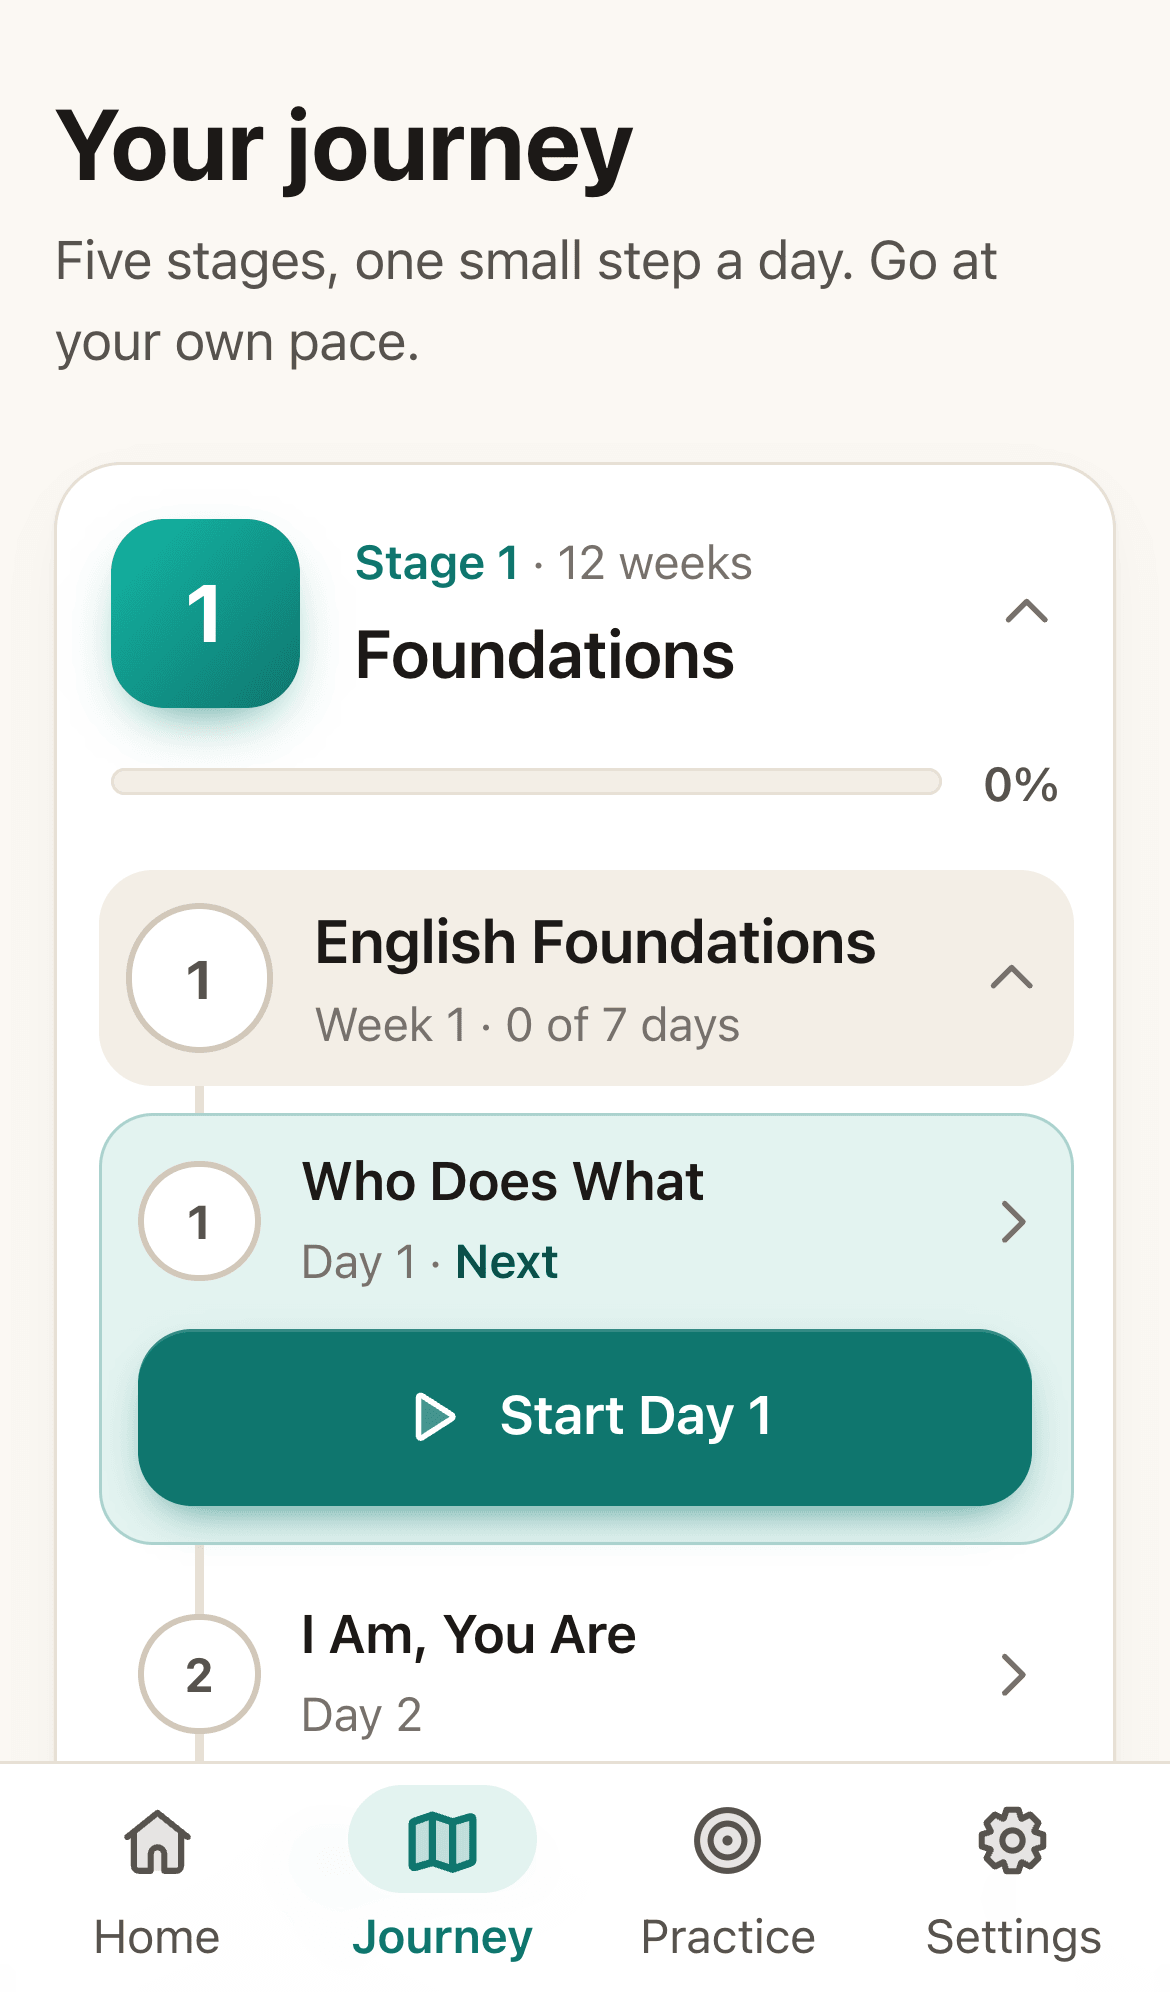
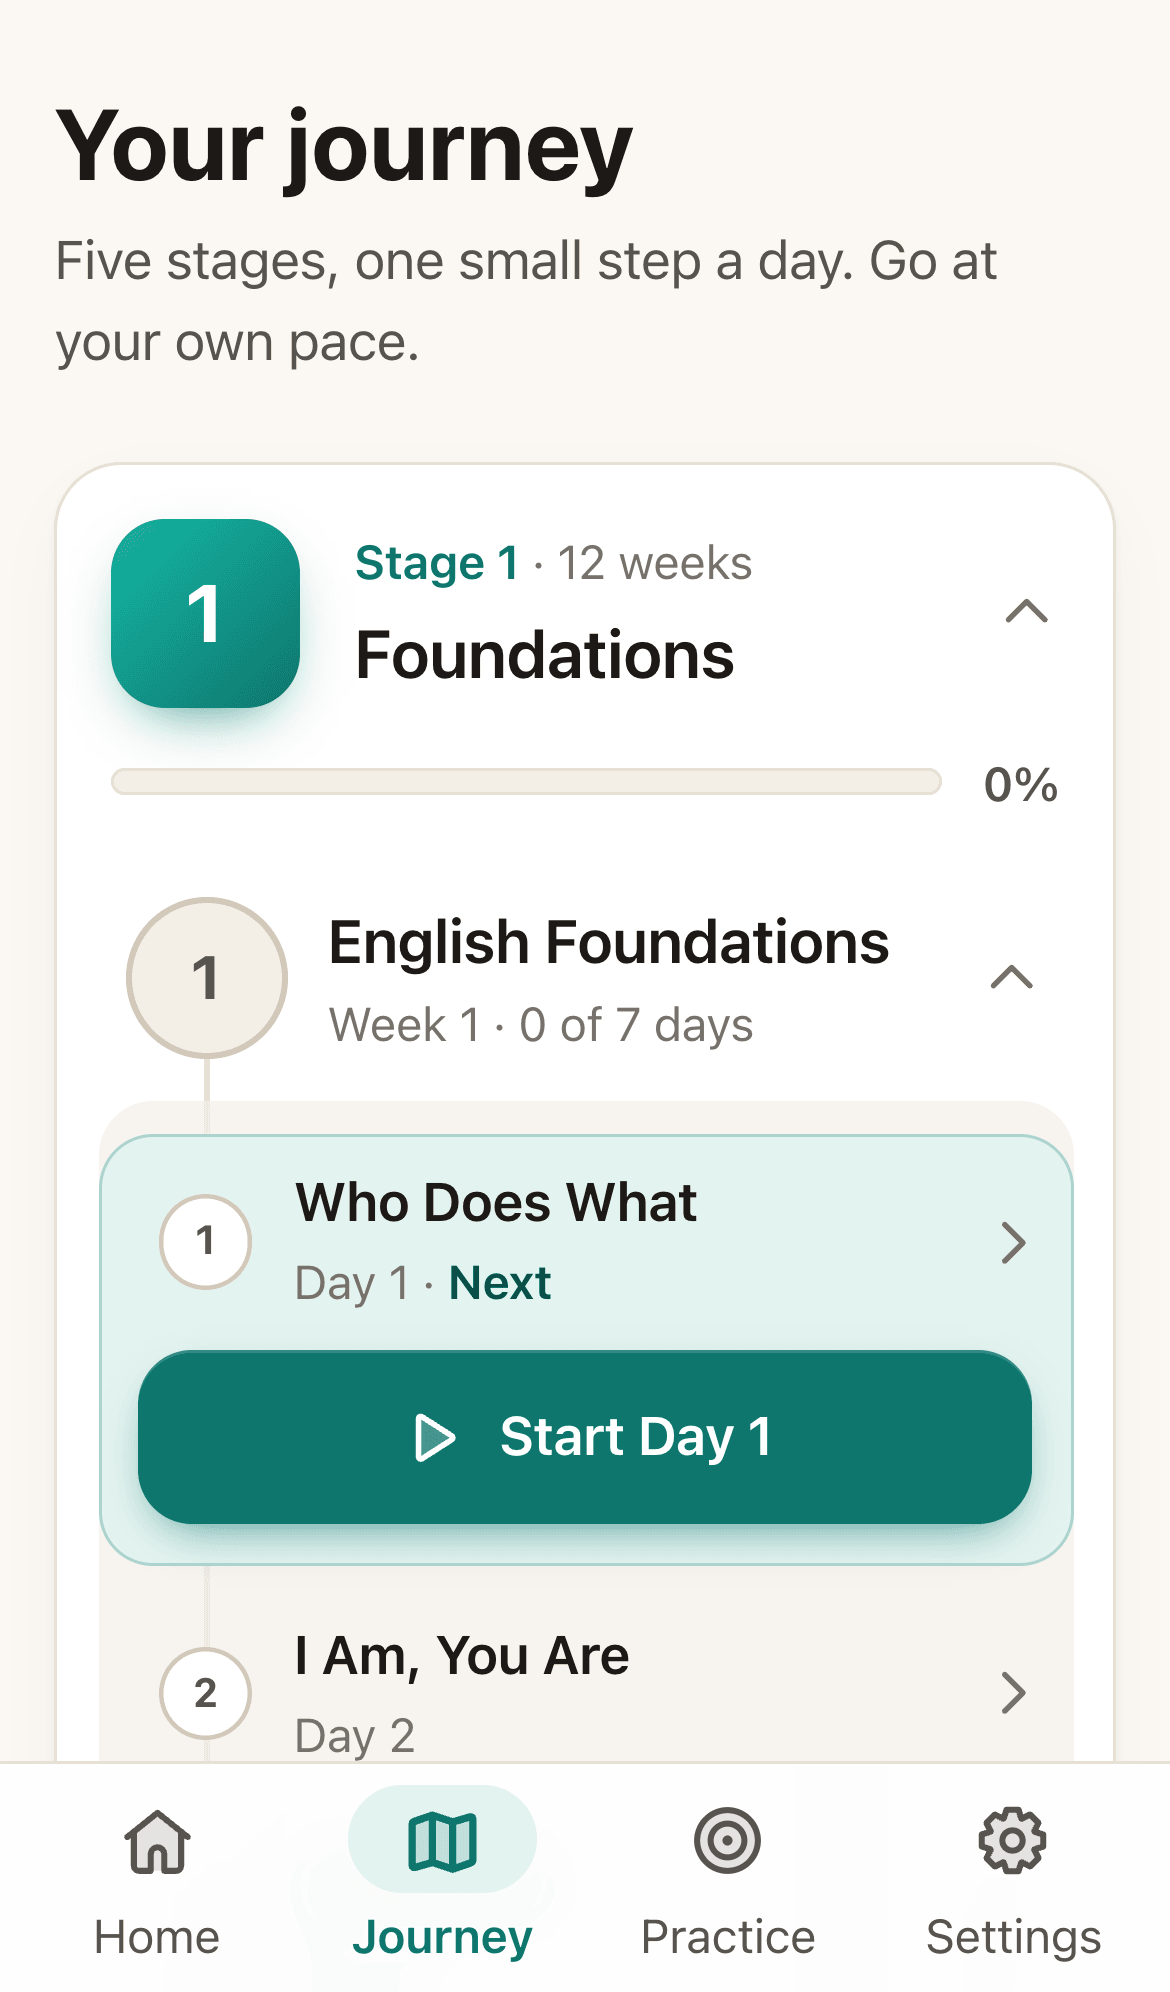
Journey: weeks look separate from days
Week circles are 3rem with a soft fill and a larger number; day circles are 1.75rem with a thin ring; an opened week's days sit in a tinted band, so the next week clearly starts after it (owner's pick from a three-way drawing). The Journey screenshot and its landing picture are refreshed.

Changed region(s): [[0.0615, 0.4357, 0.9231, 0.9026], [0.8615, 0.8404, 0.8923, 0.8715], [0.8615, 0.5914, 0.8923, 0.6225]]

diff --git a/src/components/learn/Journey.tsx b/src/components/learn/Journey.tsx
@@ -28,14 +28,17 @@ const SR: Record<State, BiLabel> = { complete: strings.stepDone, "in-progress": 
  * (in progress) or faint (not written yet). Sized in rem, so it grows with the text size.
  */
 function Node({ n, state, percent = 0, soon, size = "md" }: { n: number; state: State; percent?: number; soon?: boolean; size?: "md" | "sm" }) {
-  const box = size === "md" ? "size-11 text-base" : "size-9 text-sm";
+  // A week is a big filled station; a day a small stop on the line (owner, 2026-11-09).
+  const week = size === "md";
+  const box = week ? "size-12 text-lg" : "size-7 text-xs";
+  const ring = week ? "ring-2" : "ring-[1.5px]";
   const style = soon
-    ? "bg-sunken text-ink-3 ring-2 ring-inset ring-line"
+    ? `bg-sunken text-ink-3 ${ring} ring-inset ring-line`
     : state === "complete"
       ? "bg-good text-surface"
       : state === "in-progress"
-        ? "bg-surface text-brand-ink ring-[3px] ring-inset ring-brand/20"
-        : "bg-surface text-ink-2 ring-2 ring-inset ring-line-strong";
+        ? `${week ? "bg-sunken" : "bg-surface"} text-brand-ink ring-[3px] ring-inset ring-brand/20`
+        : `${week ? "bg-sunken" : "bg-surface"} text-ink-2 ${ring} ring-inset ring-line-strong`;
   return (
     <>
       <span aria-hidden="true" className={`relative z-[1] flex shrink-0 items-center justify-center rounded-full font-bold tabular-nums ${box} ${style}`}>
@@ -56,17 +59,17 @@ function Node({ n, state, percent = 0, soon, size = "md" }: { n: number; state: 
             />
           </svg>
         )}
-        {!soon && state === "complete" ? <Icon name="check" className={size === "md" ? "size-5" : "size-4"} strokeWidth={3} /> : n}
+        {!soon && state === "complete" ? <Icon name="check" className={week ? "size-5" : "size-3.5"} strokeWidth={3} /> : n}
       </span>
       <span className="sr-only">{SR[state].en}. </span>
     </>
   );
 }
 
-// Rows line their circles up on one path line (WeekPath): a week's circle (2.75rem) sits 0.5rem in, a day's
-// (2.25rem) 0.75rem in, so both centres are 1.875rem from the left.
+// Rows line their circles up on one path line (WeekPath): a week's circle (3rem) sits 0.5rem in, a day's
+// (1.75rem) 1.125rem in, so both centres are 2rem from the left.
 const ROW = `relative flex min-h-16 w-full items-center gap-3 rounded-2xl px-2 py-2 text-left ${focusRing}`;
-const DAY_ROW = `relative flex min-h-16 w-full items-center gap-3 rounded-2xl py-2 pr-2 pl-3 text-left ${focusRing}`;
+const DAY_ROW = `relative flex min-h-16 w-full items-center gap-3 rounded-2xl py-2 pr-2 pl-[1.125rem] text-left ${focusRing}`;
 
 /** A name with a small line under it ("Day 2 · 41% done"), so the name gets the row's whole width. */
 function RowText({ title, caption, status, statusTone = "text-ink-3", big }: { title: string; caption: string; status?: string; statusTone?: string; big?: boolean }) {
@@ -116,7 +119,7 @@ function DayBody({ day }: { day: DayView }) {
   return (
     <div className="my-1 rounded-2xl bg-brand-soft ring-1 ring-brand/25 ring-inset">
       <DayLink day={day} />
-      <div className="px-3 pb-3 sm:pl-[3.75rem]">
+      <div className="px-3 pb-3 sm:pl-[3.625rem]">
         <Link href={`/learn/play?l=${encodeURIComponent(day.id)}`} className={`${button("primary", "md")} w-full`}>
           <Icon name="play" className="size-5" />
           {action.en}
@@ -184,7 +187,7 @@ function WeekRow({ week, progress, written, open, onToggle, nextDay, scrollDay }
   const stats = weekStats(week, progress);
   return (
     <li className="relative">
-      <button type="button" aria-expanded={open} onClick={onToggle} className={`${ROW} hover:bg-sunken ${open ? "bg-sunken" : ""}`}>
+      <button type="button" aria-expanded={open} onClick={onToggle} className={`${ROW} hover:bg-sunken`}>
         <Node n={week.n} state={stats.state} percent={stats.percent} />
         <RowText
           title={week.title.en}
@@ -196,7 +199,7 @@ function WeekRow({ week, progress, written, open, onToggle, nextDay, scrollDay }
         <Icon name="chevronDown" className={`size-5 shrink-0 text-ink-3 transition-transform duration-200 motion-reduce:transition-none ${open ? "rotate-180" : ""}`} />
       </button>
       {open && (
-        <ul aria-label={strings.journeyDays.en} className="mt-1 mb-3 flex animate-fade-in flex-col gap-0.5 motion-reduce:animate-none">
+        <ul aria-label={strings.journeyDays.en} className="mt-1 mb-3 flex animate-fade-in flex-col gap-0.5 rounded-2xl bg-sunken/70 py-1.5 motion-reduce:animate-none">
           {week.days.map((ref, i) => (
             <DayRow
               key={ref.id}
@@ -218,7 +221,7 @@ function WeekRow({ week, progress, written, open, onToggle, nextDay, scrollDay }
 /** The weeks of a stage or track, and an opened week's days, joined by one line through their circles. */
 function WeekPath({ children }: { children: React.ReactNode }) {
   return (
-    <ul className="relative mt-3 flex flex-col gap-0.5 before:absolute before:top-8 before:bottom-8 before:left-[calc(1.875rem-1px)] before:w-0.5 before:rounded-full before:bg-line">
+    <ul className="relative mt-3 flex flex-col gap-0.5 before:absolute before:top-8 before:bottom-8 before:left-[calc(2rem-1px)] before:w-0.5 before:rounded-full before:bg-line">
       {children}
     </ul>
   );

diff --git a/docs/BUILD_PLAN.md b/docs/BUILD_PLAN.md
@@ -753,7 +753,7 @@ As Step 13, for `present-continuous-right-now` and `past-simple-yesterday` (CURR
 ## After launch: a Journey page worth living in (owner request)
 
 - **Why:** Journey is where learners spend most of their time, but on phones (owner's Android and iPhone screenshots, 2026-11-08) lesson names wrapped to three lines: the % pill, the chevron and two levels of indentation left them a narrow column, and two path lines ran side by side.
-- **Path:** one line runs through every week and day circle (weeks 2.75rem, days 2.25rem, both centred 1.875rem in). A circle shows its number, a tick when done, and an arc for the part done while in progress (sized in rem, so it grows with the text size). Stage and track cards use `cardPath` (less padding on phones).
+- **Path:** one line runs through every week and day circle, both centred 2rem in. Since 2026-11-09 (owner) a week is a big filled station (3rem, `bg-sunken`, larger number) and a day a small stop (1.75rem, thin ring); an opened week's days sit in a tinted band (`bg-sunken/70`), so the next week clearly starts after it. A circle shows its number, a tick when done, and an arc for the part done while in progress (sized in rem, so it grows with the text size). Stage and track cards use `cardPath` (less padding on phones).
 - **Rows:** the name gets the whole width; a small line under it says where you are ("Day 2 · 41% done", "Day 1 · Done", "Week 1 · 3 of 7 days", "coming soon"). No % pills on weeks or days.
 - **Next lesson:** tinted, marked "Next", with its own Start Day N / Continue Lesson button straight into the player (full width on phones). When it is off screen on arrival, Journey scrolls it into view.
 - **Stage header:** "Stage 1 · 12 weeks", the name, and one bar with its % beside it. Later stages: the "can do" line goes full width under the name.
@@ -809,6 +809,7 @@ As Step 13, for `present-continuous-right-now` and `past-simple-yesterday` (CURR
 | – | Where the audio lives (owner request, 2026-11-09) | ✅ 2026-11-09 | See "Where the clips live" in the one-recorded-voice section: clips stay in the repo on Vercel, moved (`git mv`, nothing re-recorded) into subfolders by hash (`clipFile` in `audio-manifest.ts`; `build-audio.mts` writes them and removes empty folders), a year-long immutable cache header for clips, a clip cache on the phone capped at 1,500 clips (least recently played go first), and a measured trigger replaces "move out before Stage 2". |
 | – | "Almost" no longer reads the answer (owner report, 2026-11-09) | ✅ 2026-11-09 (lint, typecheck, 456 unit tests pass) | After a first wrong answer, the shared `Question` (choose, fill in the blank, listen and choose, situations, dialogue questions) auto-played the right sentence alongside "Almost", giving the answer away before the second try. It now reads it only once the question is settled (right, or wrong twice), as `Build` and `FindMistake` already did. The player test checks that nothing is read on "Almost". |
 | – | Landing page lists Week 1 only (owner report, 2026-11-09) | ✅ 2026-11-09 (lint, typecheck, unit tests pass) | The landing journey's "Week 1 lessons" card listed every released day (91 links, ~5,000 px on a phone) and its hint still said "Week 1 is ready now". It now reads "Start with Week 1" with Week 1's seven days, then "{n} lessons are ready now, and new weeks keep coming" (counted, so it never goes stale); the hint is just "Five stages, one small step a day." Search engines still reach every lesson through the sitemap and the Course JSON-LD. |
+| – | Journey: weeks look separate from days (owner request, 2026-11-09) | ✅ 2026-11-09 (lint, typecheck, 456 unit and 109 e2e tests pass) | Owner's phone screenshot: Day 7 and Week 2 circles looked alike. Owner picked "Proposed" from a three-way drawing: week circles 3rem with a soft fill and a larger number, day circles 1.75rem with a thin ring, the opened week's days in a tinted band; the opened week's row is no longer tinted. One path line, centred 2rem in. |
 | – | Production look, part 6: finish | ☐ | |
 
 ## Content released
